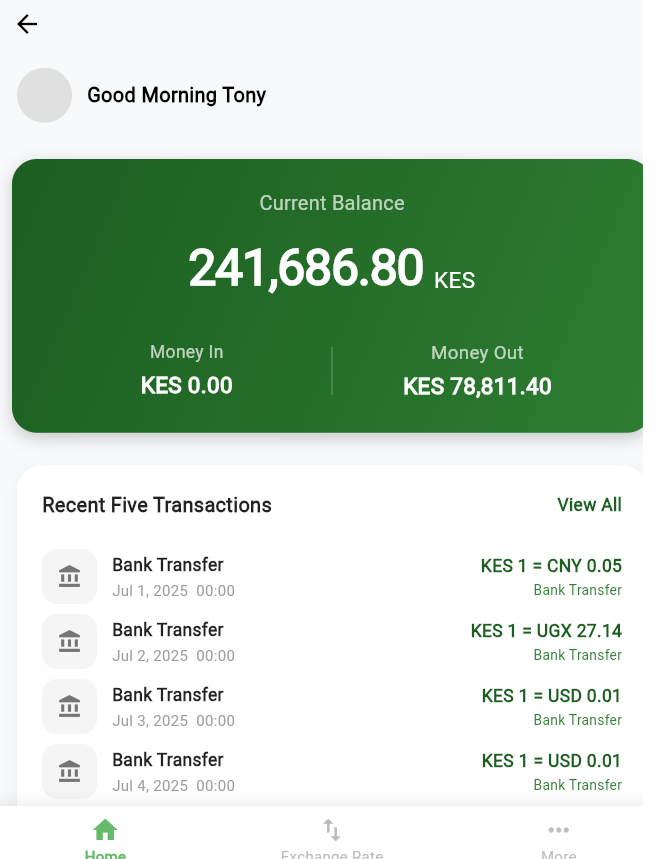
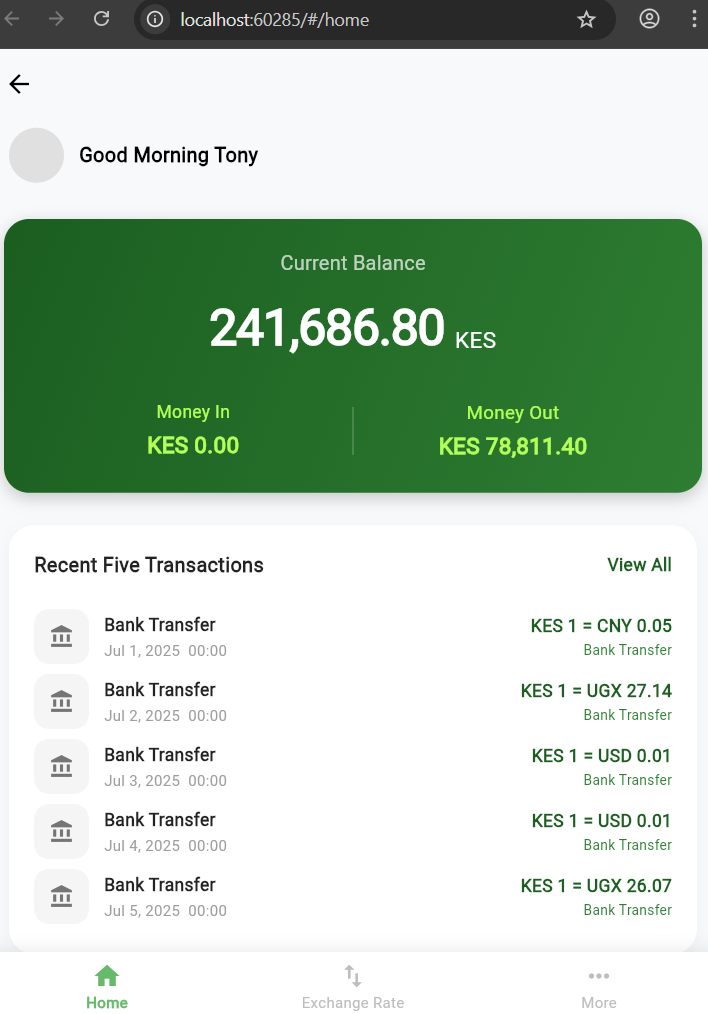
Update README and add new screenshots

diff --git a/lib/presentation/pages/home_page.dart b/lib/presentation/pages/home_page.dart
@@ -195,7 +195,7 @@ class _HomePageState extends State<HomePage> {
                                   const SizedBox(height: 4),
                                   Text(
                                     'KES ${_formatCurrency(moneyOut)}',
-                                    style: const TextStyle(color: Colors.white, fontWeight: FontWeight.bold, fontSize: 18),
+                                    style: const TextStyle(color: Colors.lightGreenAccent, fontWeight: FontWeight.bold, fontSize: 18),
                                   ),
                                 ],
                               ),

diff --git a/README.md b/README.md
@@ -1,3 +1,45 @@
+# Finance Tracker Implementation
 
+This project is a simple finance tracking application built with Flutter. The main focus was on implementing core functionality for tracking transactions and exchange rates.
 
-This project is a starting point for a Flutter application done by Antoney.
+## Project Structure
+
+- `lib/`
+  - `presentation/` - UI components and screens
+  - `domain/` - Business logic and entities
+  - `data/` - Data sources and repositories
+  - `core/` - Shared utilities and constants
+
+## Key Features Implemented
+
+1. **Transaction Management**
+   - Display list of transactions
+   - Show transaction details including exchange rates
+   - Basic transaction filtering
+
+2. **Exchange Rate Tracking**
+   - Display current exchange rates
+   - Basic currency conversion
+
+3. **State Management**
+   - Used Provider for state management
+   - Implemented TransactionProvider for transaction state
+
+## Dependencies
+
+- flutter: UI framework
+- provider: State management
+- intl: Date and number formatting
+- http: API calls
+
+## Setup
+
+1. Clone the repository
+2. Run `flutter pub get`
+3. Run `flutter run`
+
+## Notes
+
+- This was implemented as a test project
+- Focus was on core functionality rather than UI polish
+- Some features may be incomplete or placeholders
